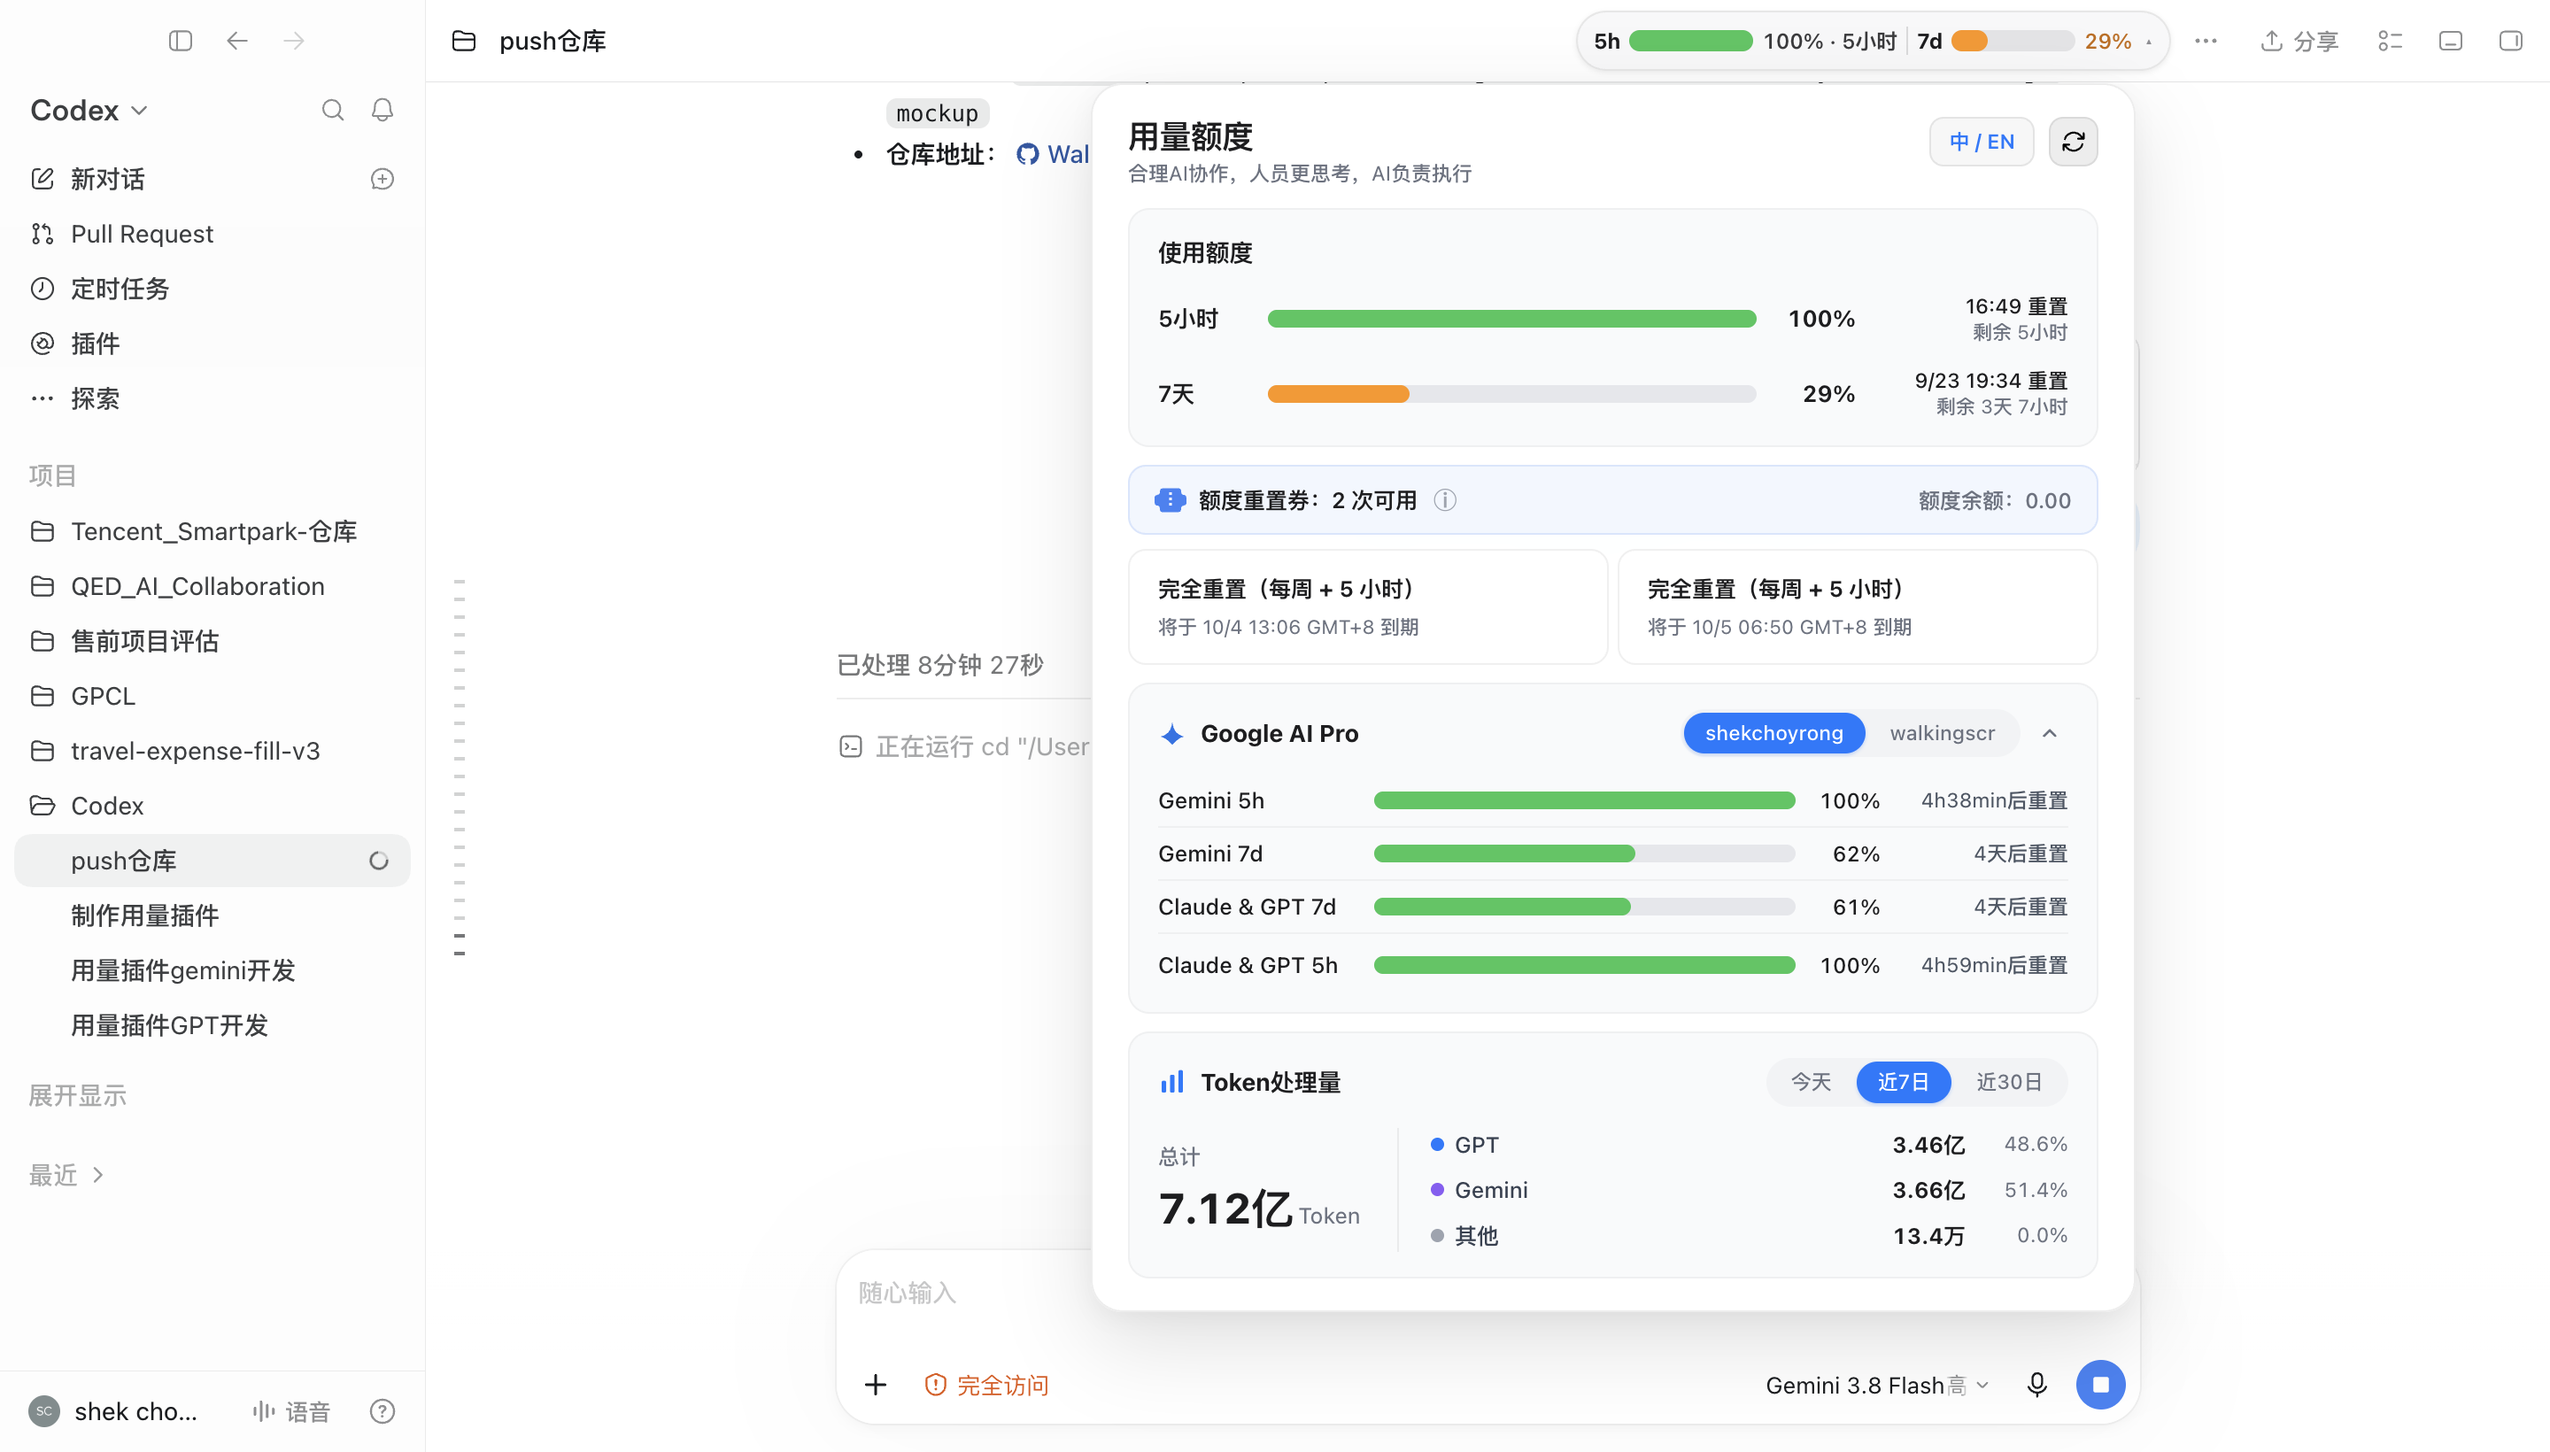
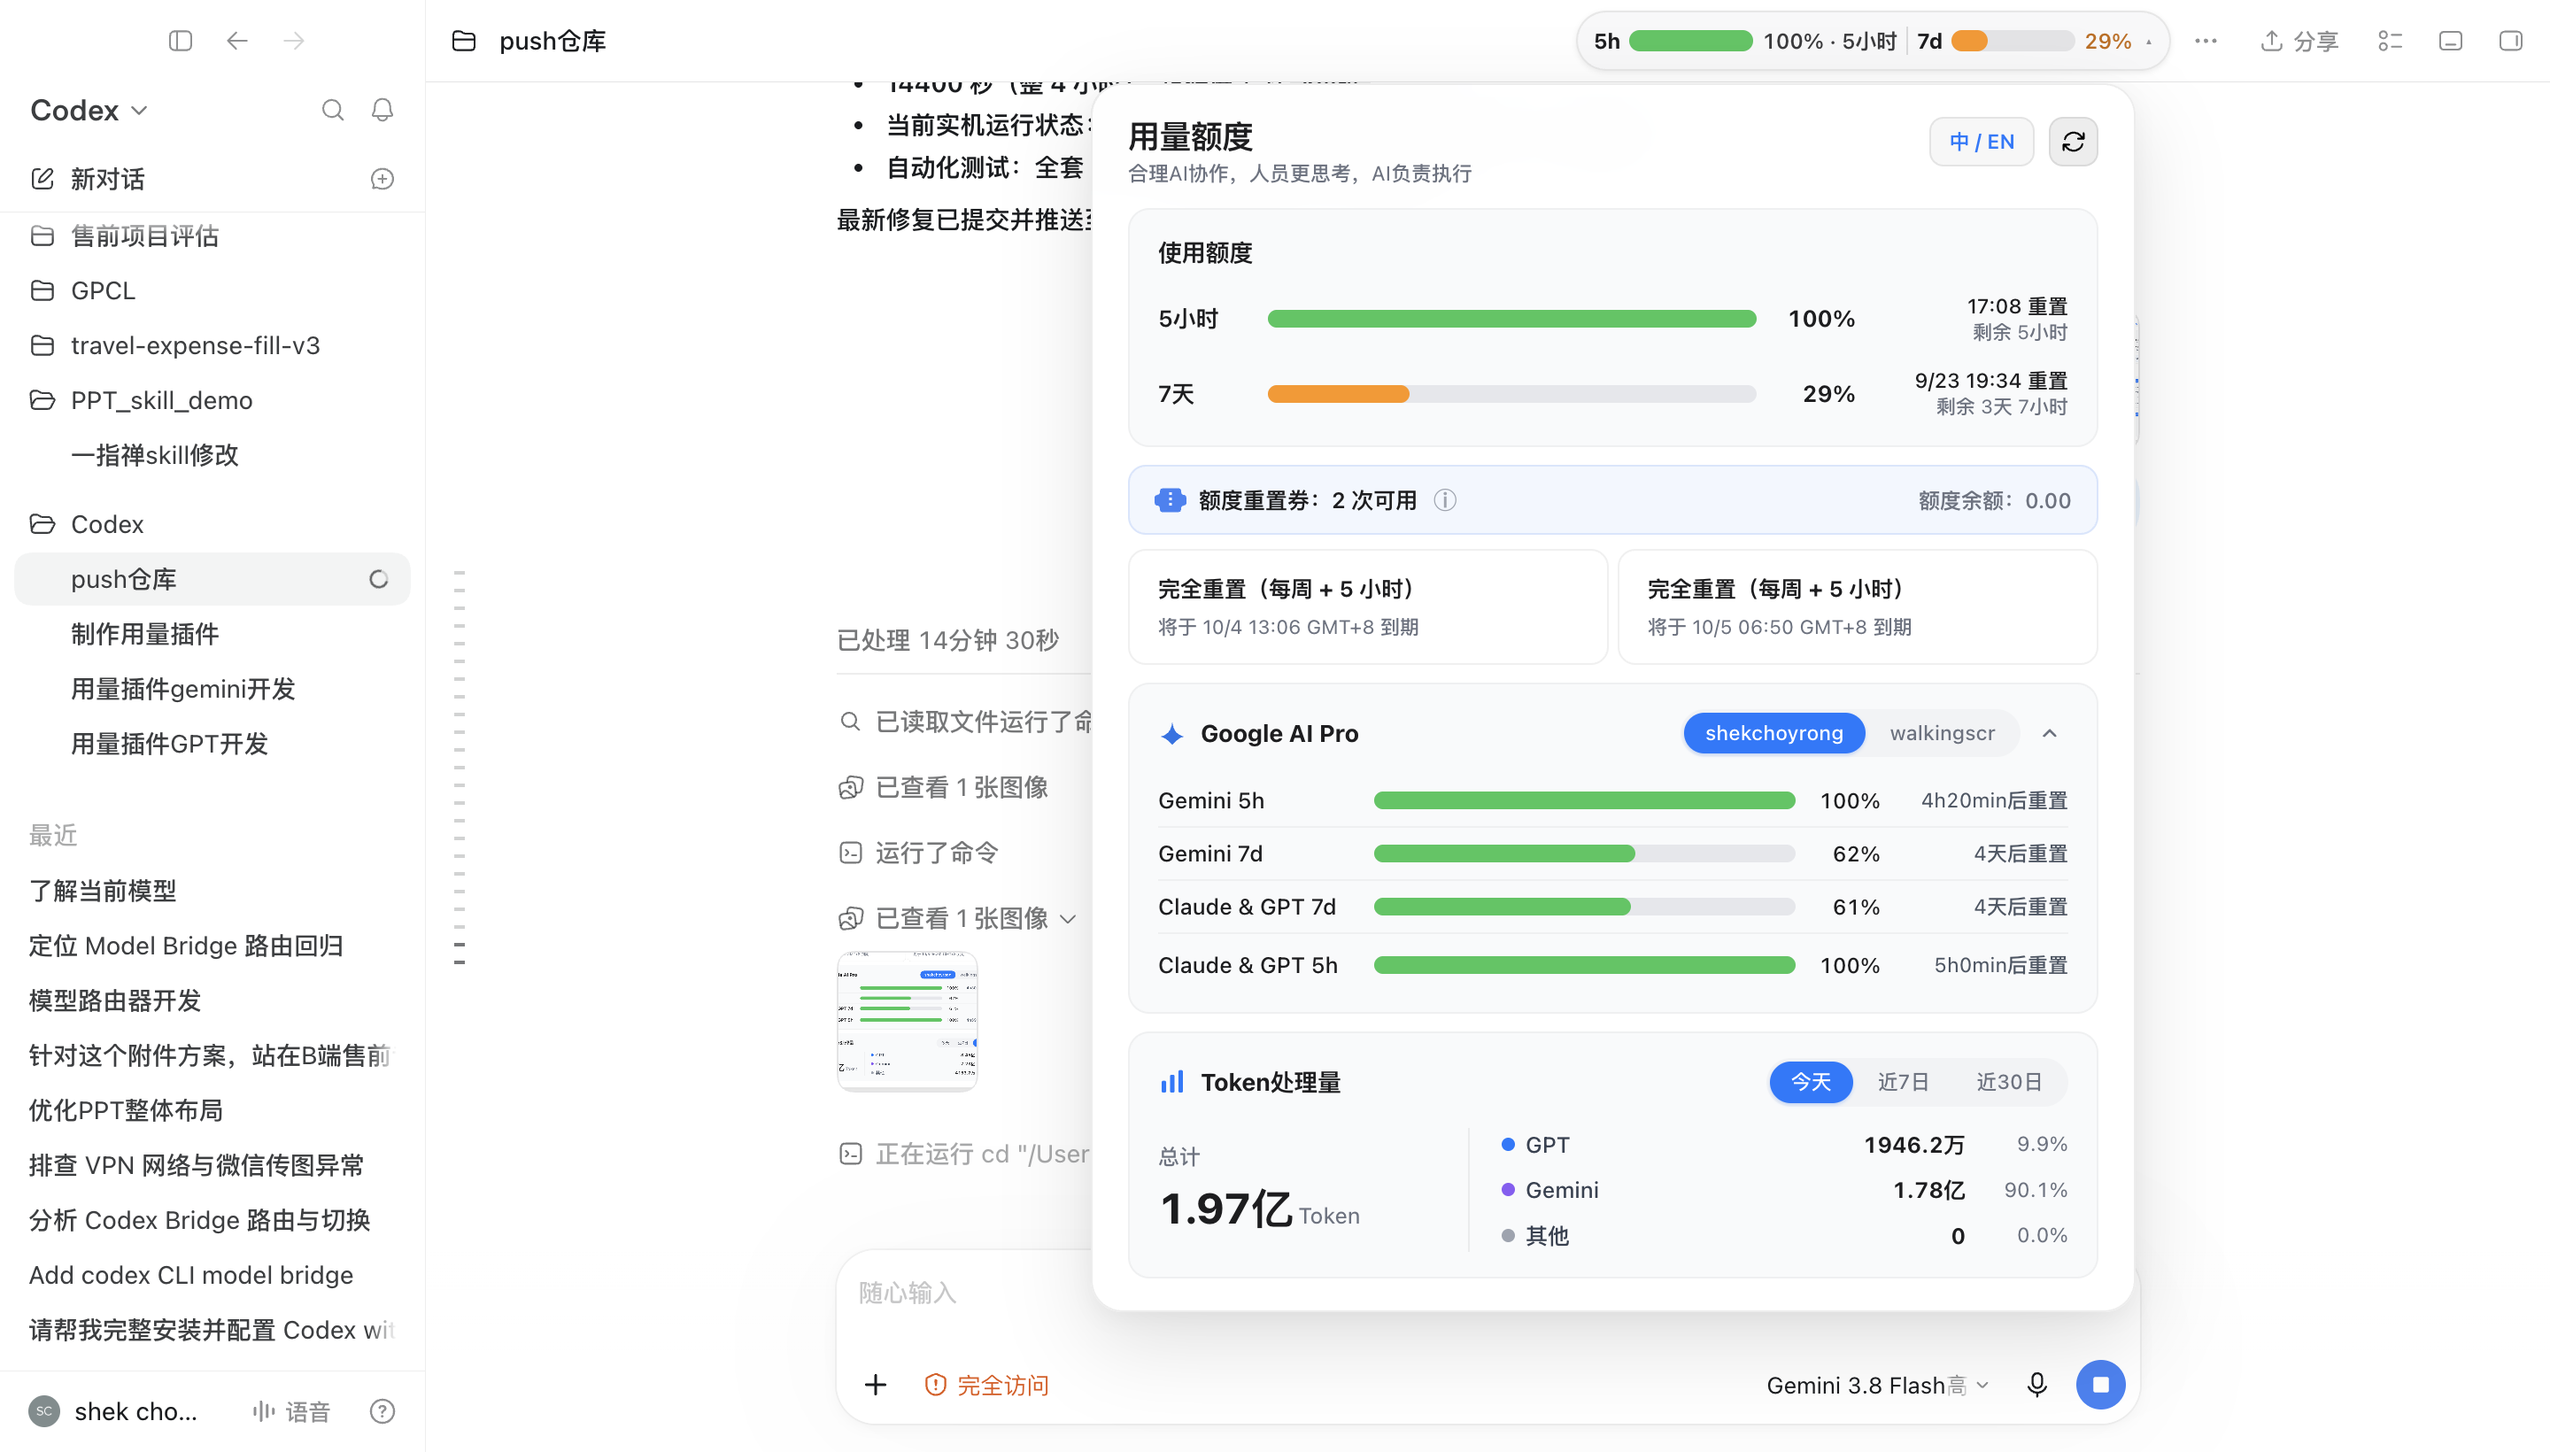
fix(ui): prevent line break on multi-digit token totals and expand column width

diff --git a/src/injected.js b/src/injected.js
@@ -6,7 +6,7 @@
 (() => {
   'use strict';
 
-  const RUNTIME_VERSION = '3.2.0';
+  const RUNTIME_VERSION = '3.3.0';
   const HOST_TAG = 'codex-usage-header-host';
   const POPOVER_CLASS = 'codex-usage-popover-v24';
   const POPOVER_ID = 'codex-usage-details-v24';
@@ -907,12 +907,12 @@
       '.quota-extension-range-tab:hover{color:' + (dark ? '#FFFFFF' : '#1D1D1F') + '}',
       '.quota-extension-range-tab.is-active{background:#007AFF;color:#FFFFFF;box-shadow:0 1px 2px rgba(0,122,255,.25)}',
 
-      '.quota-extension-token-table{display:grid;grid-template-columns:135px 1fr;align-items:center;gap:0;margin-top:12px}',
-      '.token-summary-col{display:flex;flex-direction:column;justify-content:center;padding-right:16px}',
-      '.token-summary-label{font-size:12px;color:' + (dark ? '#A1A1A6' : '#6B7280') + ';font-weight:500;margin-bottom:2px}',
-      '.token-summary-val{display:flex;align-items:baseline;gap:3px}',
-      '.token-summary-number{font-size:24px;font-weight:750;letter-spacing:-.4px;font-variant-numeric:tabular-nums;color:' + (dark ? '#F5F5F7' : '#1D1D1F') + '}',
-      '.token-summary-unit{font-size:12.5px;color:' + (dark ? '#A1A1A6' : '#6B7280') + ';font-weight:450}',
+      '.quota-extension-token-table{display:grid;grid-template-columns:minmax(175px,auto) 1fr;align-items:center;gap:0;margin-top:12px}',
+      '.token-summary-col{display:flex;flex-direction:column;justify-content:center;padding-right:16px;min-width:170px}',
+      '.token-summary-label{font-size:12px;color:' + (dark ? '#A1A1A6' : '#6B7280') + ';font-weight:500;margin-bottom:2px;white-space:nowrap}',
+      '.token-summary-val{display:flex;align-items:baseline;gap:3px;white-space:nowrap}',
+      '.token-summary-number{font-size:24px;font-weight:750;letter-spacing:-.4px;font-variant-numeric:tabular-nums;color:' + (dark ? '#F5F5F7' : '#1D1D1F') + ';white-space:nowrap;word-break:keep-all}',
+      '.token-summary-unit{font-size:12.5px;color:' + (dark ? '#A1A1A6' : '#6B7280') + ';font-weight:450;white-space:nowrap;flex-shrink:0}',
       '.token-models-col{display:flex;flex-direction:column;gap:7px;border-left:1px solid ' + (dark ? 'rgba(255,255,255,.07)' : 'rgba(0,0,0,.06)') + ';padding-left:18px}',
       '.token-model-row{display:grid;grid-template-columns:72px minmax(80px,1fr) 48px;align-items:center;gap:10px;font-size:12.5px}',
       '.token-model-label{display:flex;align-items:center;gap:6px;font-weight:500;color:' + (dark ? '#E5E5EA' : '#374151') + ';white-space:nowrap}',
